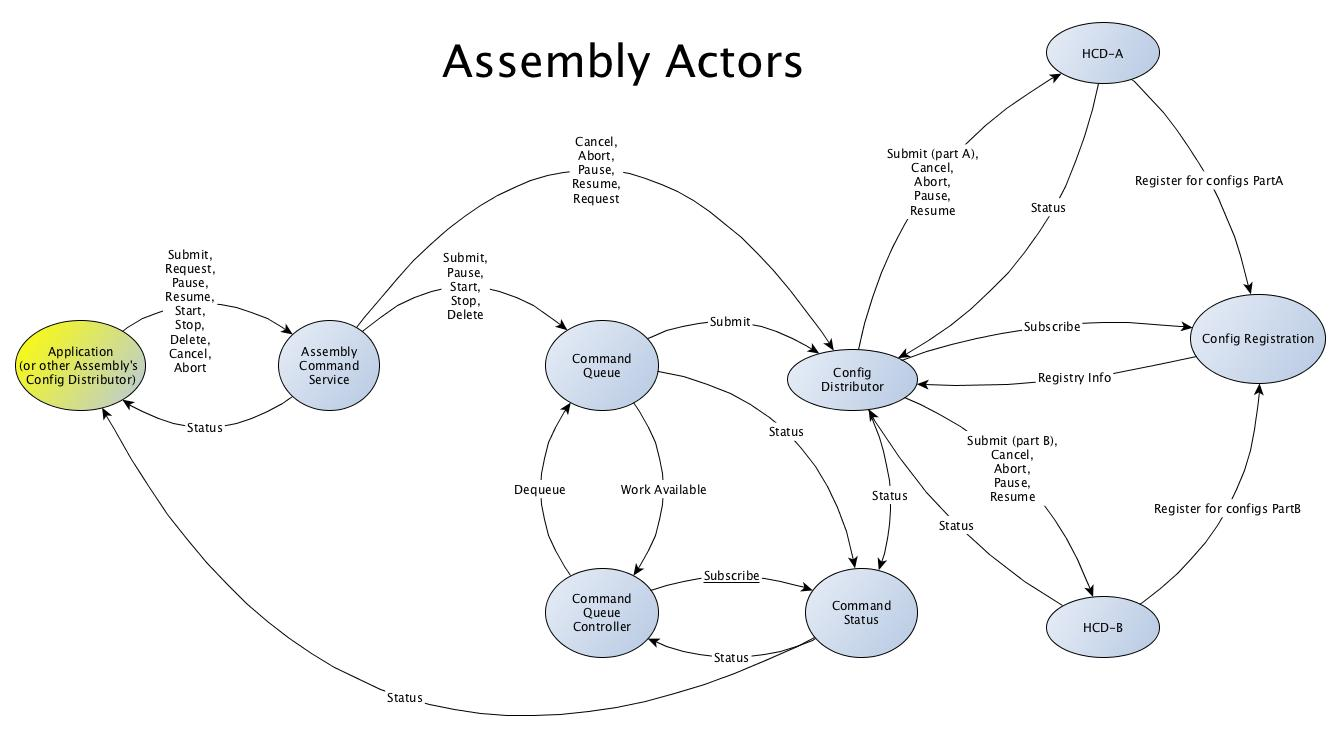
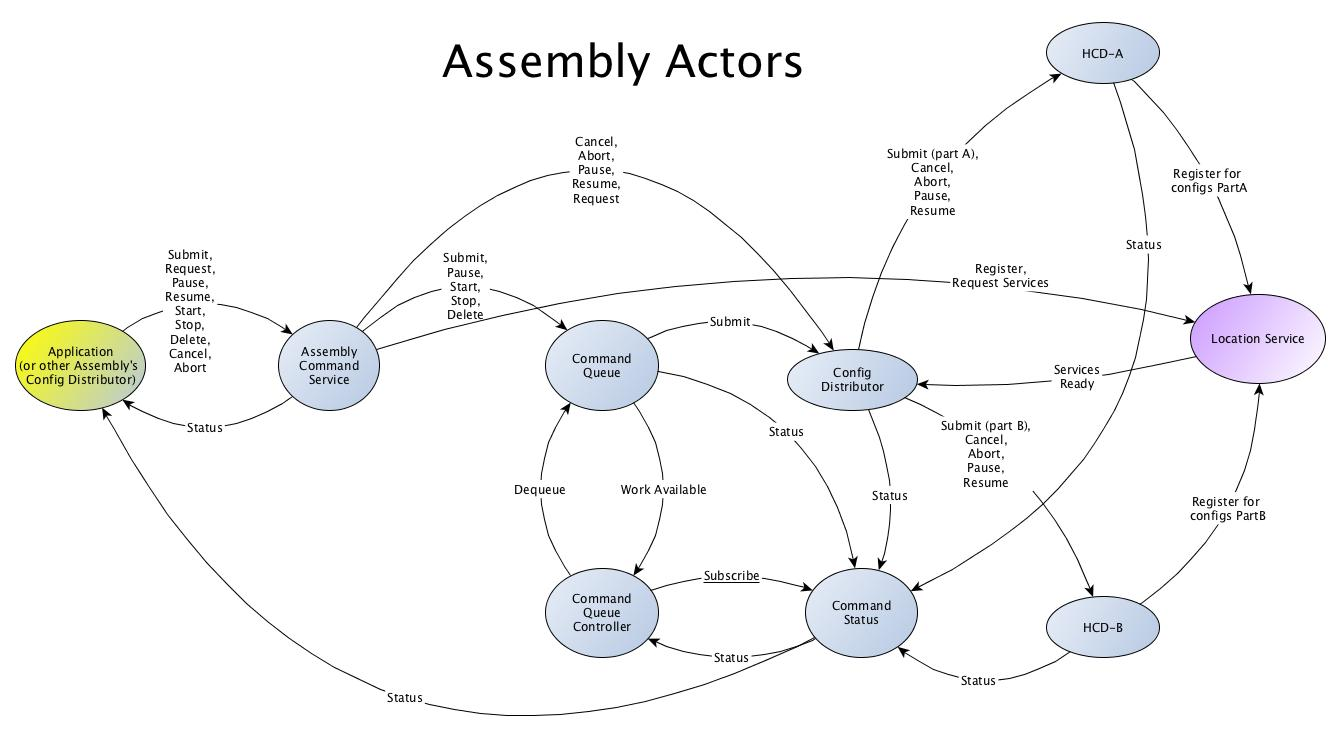
Updated README and actor graphs to match the current implementation.

diff --git a/cmd/README.md b/cmd/README.md
@@ -56,19 +56,30 @@ the original sender gets single status values as expected.
 ![Multi-Axis HCD Actor graph](doc/Multi-Axis-HCD.jpg)
 
 
+Location Service
+----------------
+
+The location service is a single actor that runs once somewhere in the network.
+All HCDs and assemblies send a registration message to the location service on startup.
+The location service saves both the Akka and HTTP URIs of every HCD or assembly.
+The Akka URI can be used to locate the actor and the HTTP URI points to the web service
+for the actor, if available. Assemblies request information about the HCDs they want to
+use and receive a single reply when all of the HCDs are available.
+HCDs can also optionally specify which parts of config messages they should receive.
+
+
 Assembly View
 -------------
 
-The assembly has the same basic setup, except that here you have a
-config registration actor, which receives registration messages from
-the HCDs. Here you also have the config distributor actor, which
-subscribes to the registration information, which includes the HCD
-actor refs along with the set of config keys each HCD is interested
-in.
+The assembly has the same basic actor setup, except that here the config
+distributor actor is used in place of the config actor. An assembly requests
+information about the HCDs it wants to use at startup and passes the answer
+to the config distributor actor, so that it knows where to send which parts
+of configs iot receives.
 
 When a config is submitted to an assembly, it is passed to the command
-queue actor, which then passes it to the config distributor actor. It
-uses the registry info to pass parts of the config to the different
+queue actor, which eventually passes it to the config distributor actor. It
+uses the location service info to pass parts of the config to the different
 HCDs.  Later, the "command status actor" in each "HCD" sends the
 command status to the config distributor actor (since it appears as
 the original sender in the message sent to the HCDs). When all the
